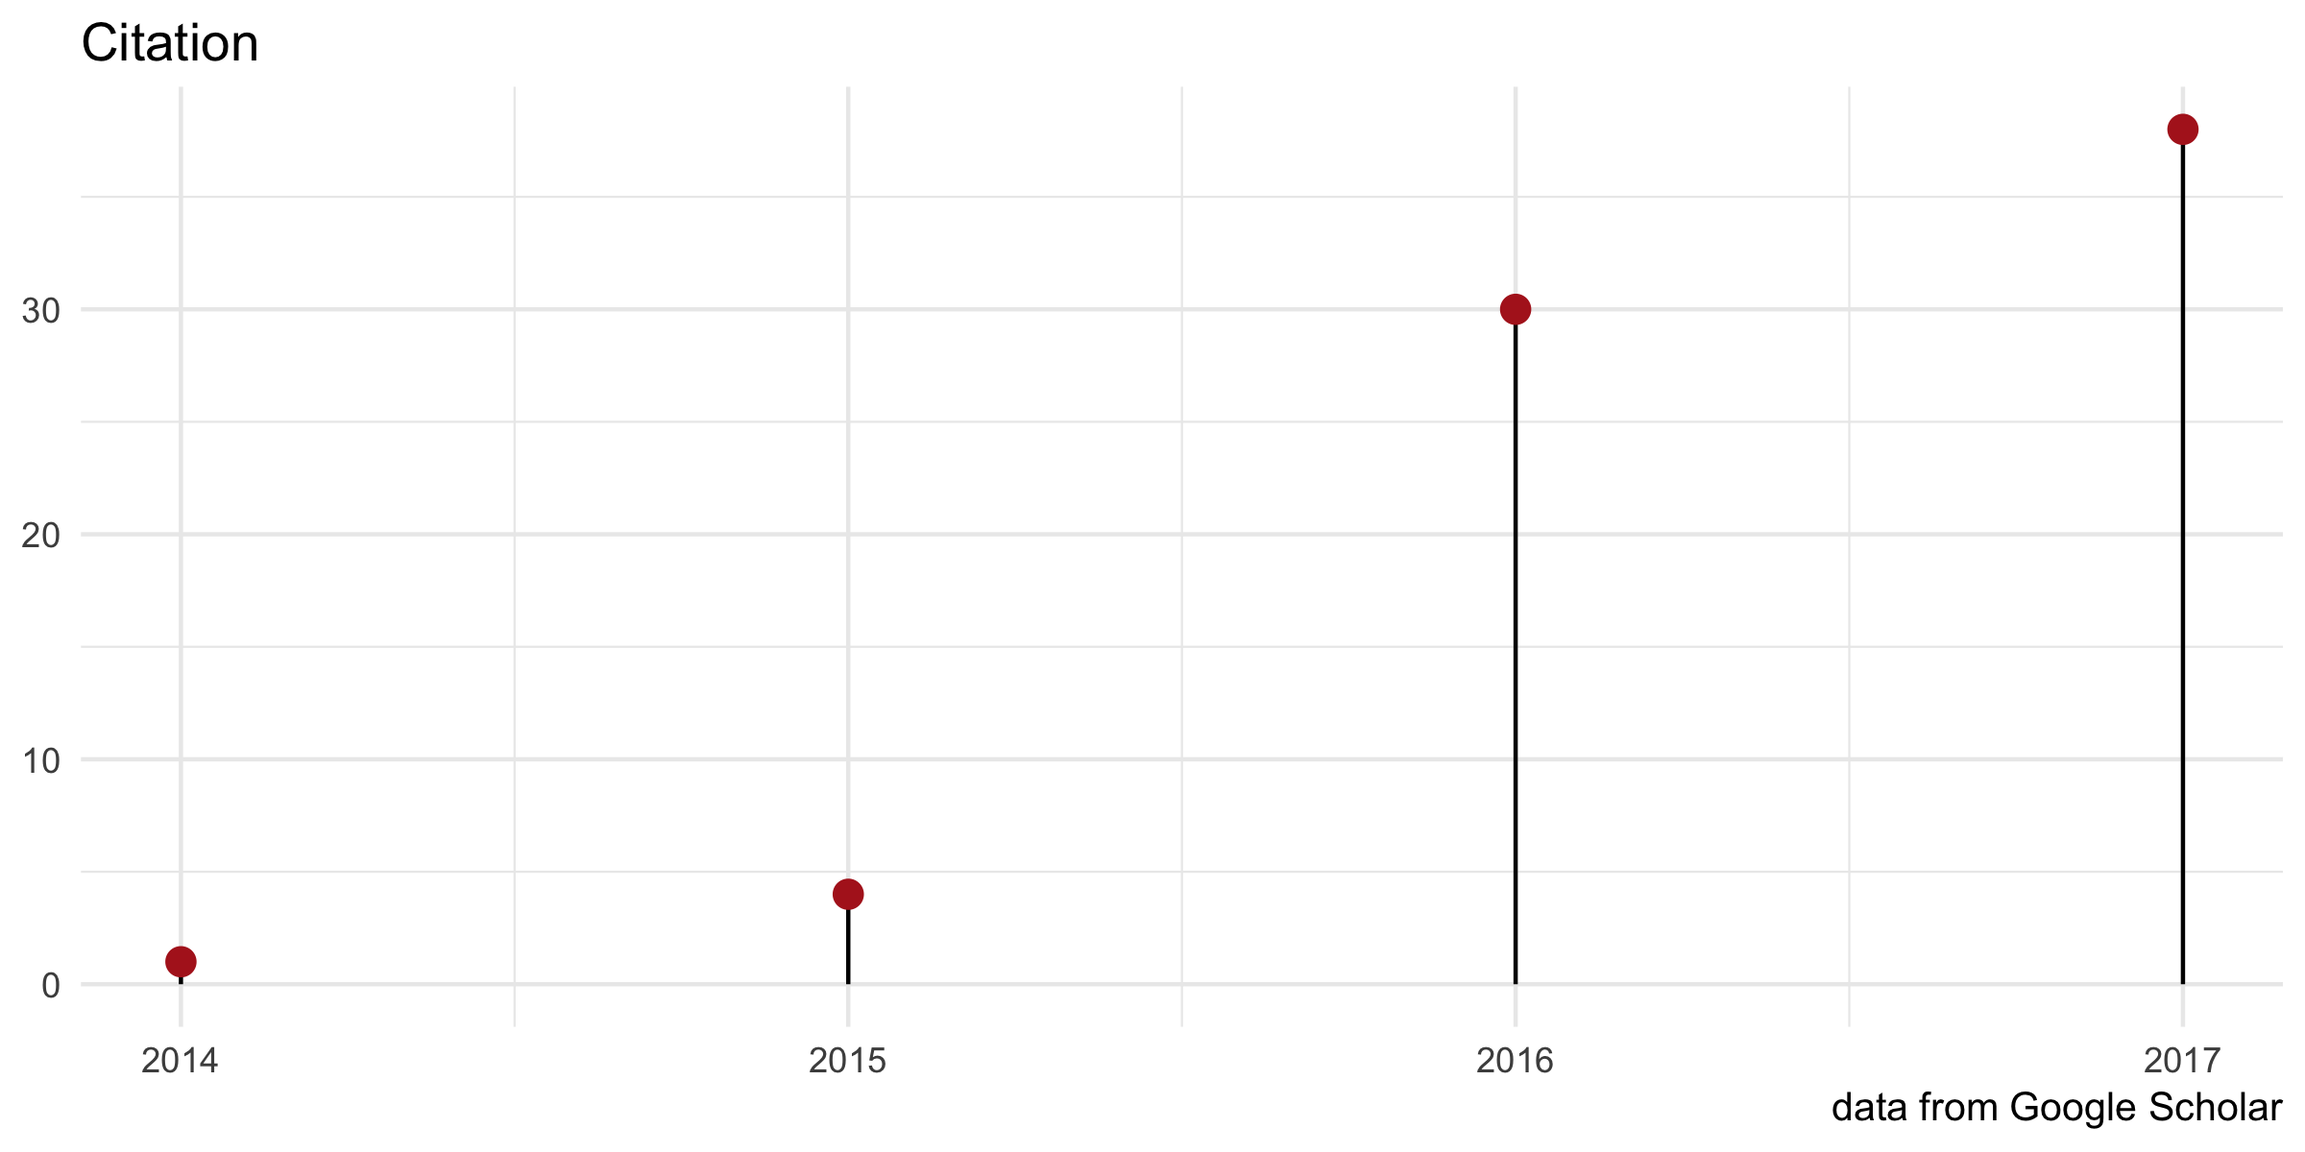
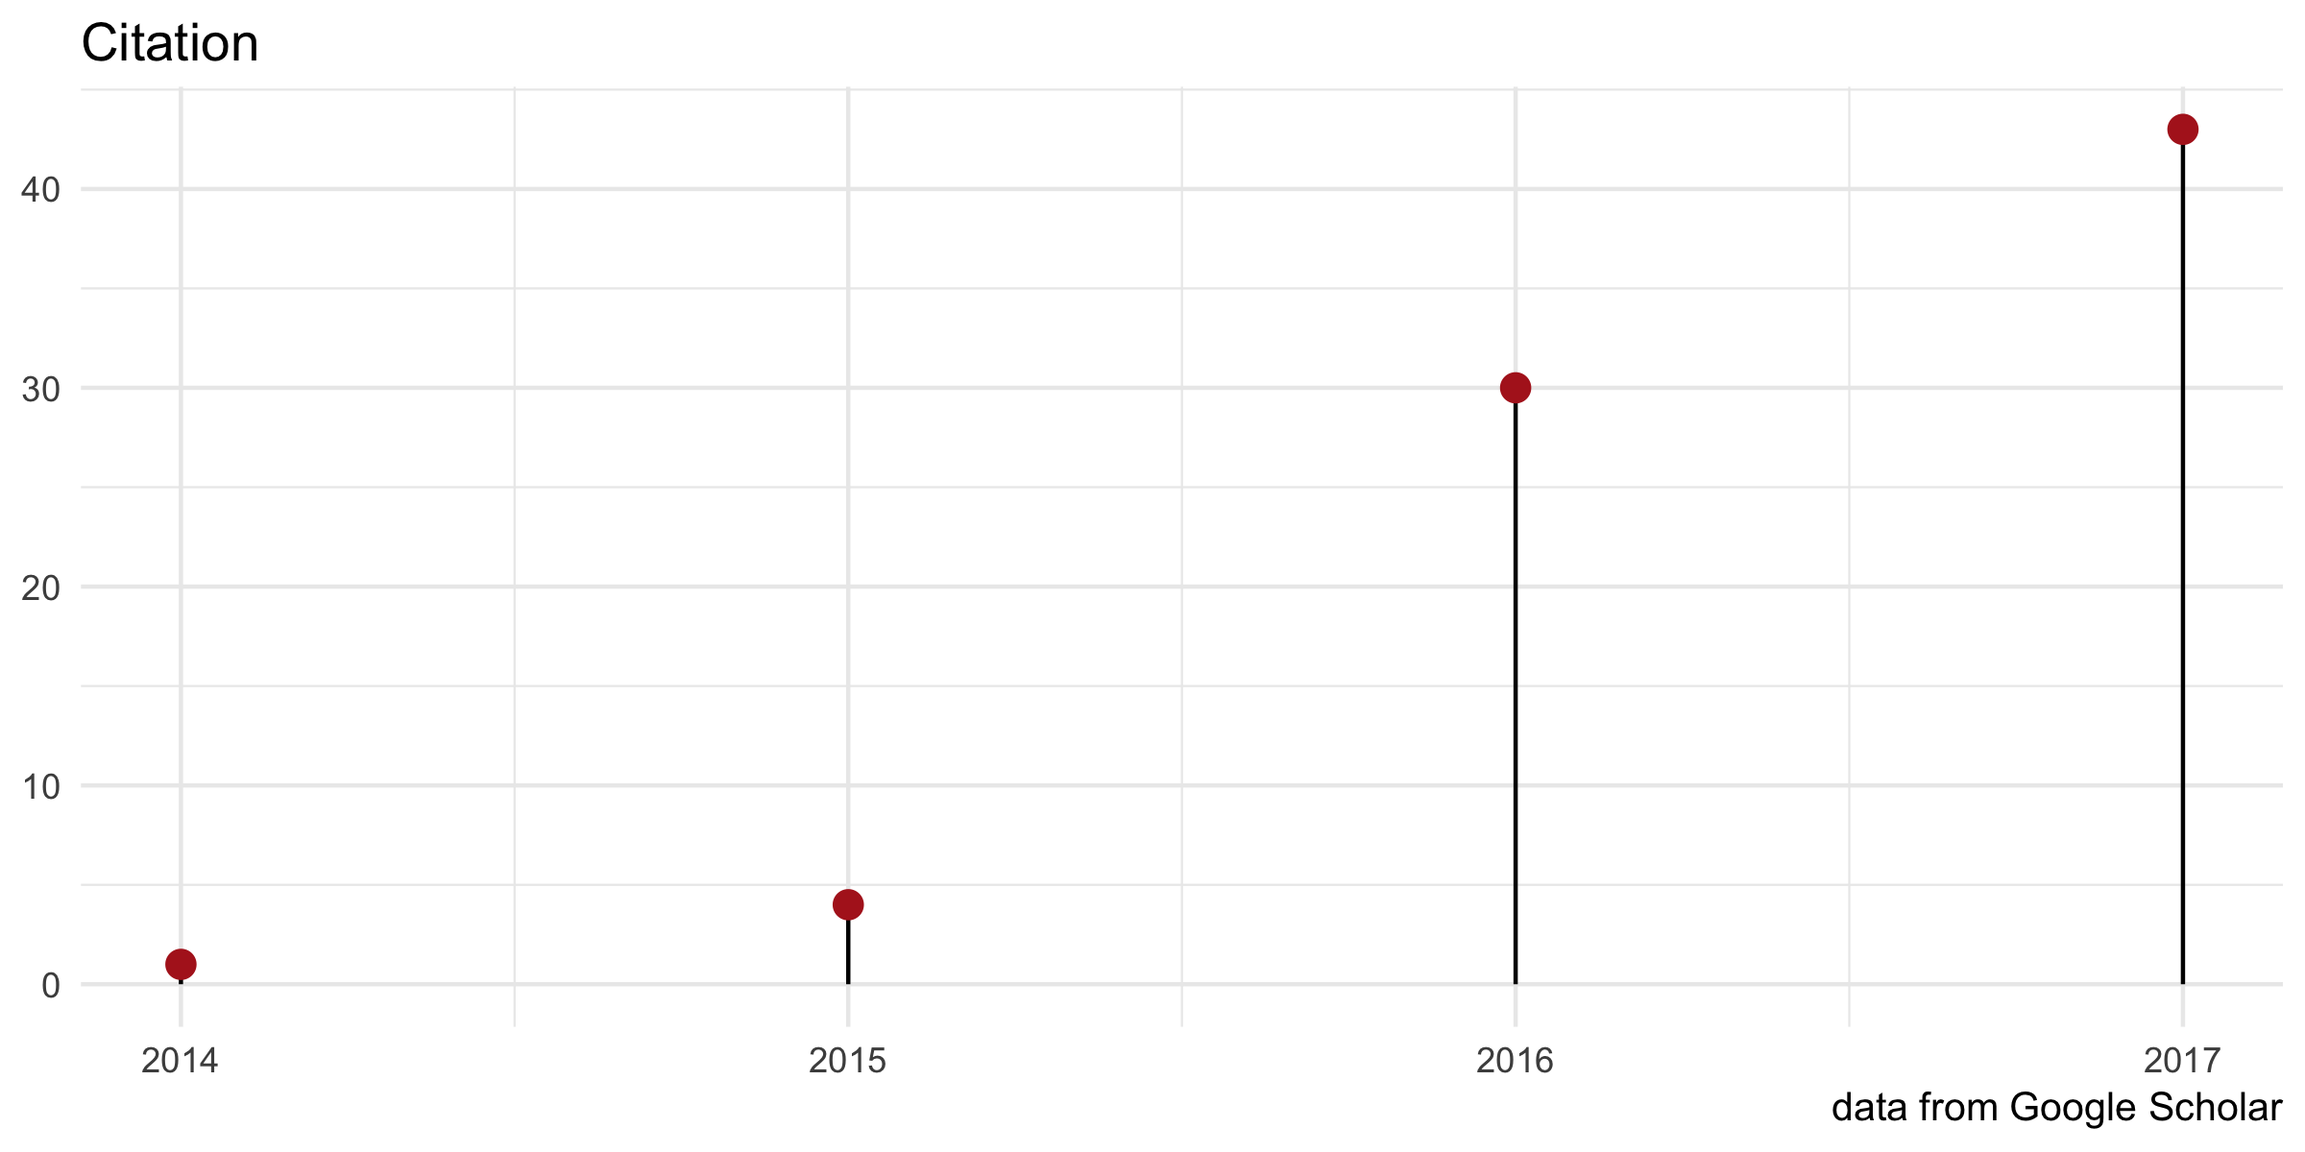
update docs

diff --git a/docs/index.html b/docs/index.html
@@ -287,7 +287,7 @@
 
 			<p><img src="https://raw.githubusercontent.com/Bioconductor/BiocStickers/master/ChIPseeker/ChIPseeker.png" height="200" align="right" /></p>
 <p><link rel="stylesheet" href="https://guangchuangyu.github.io/css/font-awesome.min.css"> <link rel="stylesheet" href="https://guangchuangyu.github.io/css/academicons.min.css"></p>
-<p><a href="https://bioconductor.org/packages/ChIPseeker"><img src="https://img.shields.io/badge/release%20version-1.12.1-blue.svg?style=flat" alt="releaseVersion" /></a> <a href="https://github.com/guangchuangyu/ChIPseeker"><img src="https://img.shields.io/badge/devel%20version-1.13.1-blue.svg?style=flat" alt="develVersion" /></a> <a href="https://bioconductor.org/packages/stats/bioc/ChIPseeker"><img src="https://img.shields.io/badge/downloads-16619/total-blue.svg?style=flat" alt="total" /></a> <a href="https://bioconductor.org/packages/stats/bioc/ChIPseeker"><img src="https://img.shields.io/badge/downloads-593/month-blue.svg?style=flat" alt="month" /></a></p>
+<p><a href="https://bioconductor.org/packages/ChIPseeker"><img src="https://img.shields.io/badge/release%20version-1.12.1-blue.svg?style=flat" alt="releaseVersion" /></a> <a href="https://github.com/guangchuangyu/ChIPseeker"><img src="https://img.shields.io/badge/devel%20version-1.13.1-blue.svg?style=flat" alt="develVersion" /></a> <a href="https://bioconductor.org/packages/stats/bioc/ChIPseeker"><img src="https://img.shields.io/badge/downloads-16728/total-blue.svg?style=flat" alt="total" /></a> <a href="https://bioconductor.org/packages/stats/bioc/ChIPseeker"><img src="https://img.shields.io/badge/downloads-565/month-blue.svg?style=flat" alt="month" /></a></p>
 <p>This package implements functions to retrieve the nearest genes around the peak, annotate genomic region of the peak, statstical methods for estimate the significance of overlap among ChIP peak data sets, and incorporate GEO database for user to compare their own dataset with those deposited in database. The comparison can be used to infer cooperative regulation and thus can be used to generate hypotheses. Several visualization functions are implemented to summarize the coverage of the peak experiment, average profile and heatmap of peaks binding to TSS regions, genomic annotation, distance to TSS, and overlap of peaks or genes.</p>
 <p><code>ChIPseeker</code> is released within the <a href="https://www.bioconductor.org/packages/ChIPseeker">Bioconductor</a> project and the source code is hosted on <a href="https://github.com/GuangchuangYu/ChIPseeker"><i class="fa fa-github fa-lg"></i> GitHub</a>.</p>
 <div id="author" class="section level2">
@@ -297,7 +297,7 @@
 <div id="citation" class="section level2">
 <h2><i class="fa fa-book"></i> Citation</h2>
 <p>Please cite the following article when using <code>ChIPseeker</code>:</p>
-<p><a href="http://dx.doi.org/10.1093/bioinformatics/btv145"><img src="https://img.shields.io/badge/doi-10.1093/bioinformatics/btv145-blue.svg?style=flat" alt="doi" /></a> <a href="https://www.altmetric.com/details/3781087"><img src="https://img.shields.io/badge/Altmetric-31-blue.svg?style=flat" alt="Altmetric" /></a> <a href="https://scholar.google.com.hk/scholar?oi=bibs&amp;hl=en&amp;cites=12053363057899219488"><img src="https://img.shields.io/badge/cited%20by-76-blue.svg?style=flat" alt="citation" /></a></p>
+<p><a href="http://dx.doi.org/10.1093/bioinformatics/btv145"><img src="https://img.shields.io/badge/doi-10.1093/bioinformatics/btv145-blue.svg?style=flat" alt="doi" /></a> <a href="https://www.altmetric.com/details/3781087"><img src="https://img.shields.io/badge/Altmetric-31-blue.svg?style=flat" alt="Altmetric" /></a> <a href="https://scholar.google.com.hk/scholar?oi=bibs&amp;hl=en&amp;cites=12053363057899219488"><img src="https://img.shields.io/badge/cited%20by-78-blue.svg?style=flat" alt="citation" /></a></p>
 <p><strong>Yu G</strong>, Wang LG and He QY<sup>*</sup>. ChIPseeker: an R/Bioconductor package for ChIP peak annotation, comparison and visualization. <strong><em>Bioinformatics</em></strong>, 2015, 31(14):2382-2383.</p>
 </div>
 <div id="featured-articles" class="section level2">
@@ -504,6 +504,11 @@ biocLite(&quot;ChIPseeker&quot;)</code></pre>
     
 
     <script src="//cdnjs.cloudflare.com/ajax/libs/highlight.js/9.8.0/highlight.min.js"></script>
+    <script>hljs.initHighlightingOnLoad();</script>
+  </body>
+</html>
+
+pt src="//cdnjs.cloudflare.com/ajax/libs/highlight.js/9.8.0/highlight.min.js"></script>
     <script>hljs.initHighlightingOnLoad();</script>
   </body>
 </html>

diff --git a/site_src/content/index.html b/site_src/content/index.html
@@ -9,7 +9,7 @@ weight: 1
 
 <p><img src="https://raw.githubusercontent.com/Bioconductor/BiocStickers/master/ChIPseeker/ChIPseeker.png" height="200" align="right" /></p>
 <p><link rel="stylesheet" href="https://guangchuangyu.github.io/css/font-awesome.min.css"> <link rel="stylesheet" href="https://guangchuangyu.github.io/css/academicons.min.css"></p>
-<p><a href="https://bioconductor.org/packages/ChIPseeker"><img src="https://img.shields.io/badge/release%20version-1.12.1-blue.svg?style=flat" alt="releaseVersion" /></a> <a href="https://github.com/guangchuangyu/ChIPseeker"><img src="https://img.shields.io/badge/devel%20version-1.13.1-blue.svg?style=flat" alt="develVersion" /></a> <a href="https://bioconductor.org/packages/stats/bioc/ChIPseeker"><img src="https://img.shields.io/badge/downloads-16619/total-blue.svg?style=flat" alt="total" /></a> <a href="https://bioconductor.org/packages/stats/bioc/ChIPseeker"><img src="https://img.shields.io/badge/downloads-593/month-blue.svg?style=flat" alt="month" /></a></p>
+<p><a href="https://bioconductor.org/packages/ChIPseeker"><img src="https://img.shields.io/badge/release%20version-1.12.1-blue.svg?style=flat" alt="releaseVersion" /></a> <a href="https://github.com/guangchuangyu/ChIPseeker"><img src="https://img.shields.io/badge/devel%20version-1.13.1-blue.svg?style=flat" alt="develVersion" /></a> <a href="https://bioconductor.org/packages/stats/bioc/ChIPseeker"><img src="https://img.shields.io/badge/downloads-16728/total-blue.svg?style=flat" alt="total" /></a> <a href="https://bioconductor.org/packages/stats/bioc/ChIPseeker"><img src="https://img.shields.io/badge/downloads-565/month-blue.svg?style=flat" alt="month" /></a></p>
 <p>This package implements functions to retrieve the nearest genes around the peak, annotate genomic region of the peak, statstical methods for estimate the significance of overlap among ChIP peak data sets, and incorporate GEO database for user to compare their own dataset with those deposited in database. The comparison can be used to infer cooperative regulation and thus can be used to generate hypotheses. Several visualization functions are implemented to summarize the coverage of the peak experiment, average profile and heatmap of peaks binding to TSS regions, genomic annotation, distance to TSS, and overlap of peaks or genes.</p>
 <p><code>ChIPseeker</code> is released within the <a href="https://www.bioconductor.org/packages/ChIPseeker">Bioconductor</a> project and the source code is hosted on <a href="https://github.com/GuangchuangYu/ChIPseeker"><i class="fa fa-github fa-lg"></i> GitHub</a>.</p>
 <div id="author" class="section level2">
@@ -19,7 +19,7 @@ weight: 1
 <div id="citation" class="section level2">
 <h2><i class="fa fa-book"></i> Citation</h2>
 <p>Please cite the following article when using <code>ChIPseeker</code>:</p>
-<p><a href="http://dx.doi.org/10.1093/bioinformatics/btv145"><img src="https://img.shields.io/badge/doi-10.1093/bioinformatics/btv145-blue.svg?style=flat" alt="doi" /></a> <a href="https://www.altmetric.com/details/3781087"><img src="https://img.shields.io/badge/Altmetric-31-blue.svg?style=flat" alt="Altmetric" /></a> <a href="https://scholar.google.com.hk/scholar?oi=bibs&amp;hl=en&amp;cites=12053363057899219488"><img src="https://img.shields.io/badge/cited%20by-76-blue.svg?style=flat" alt="citation" /></a></p>
+<p><a href="http://dx.doi.org/10.1093/bioinformatics/btv145"><img src="https://img.shields.io/badge/doi-10.1093/bioinformatics/btv145-blue.svg?style=flat" alt="doi" /></a> <a href="https://www.altmetric.com/details/3781087"><img src="https://img.shields.io/badge/Altmetric-31-blue.svg?style=flat" alt="Altmetric" /></a> <a href="https://scholar.google.com.hk/scholar?oi=bibs&amp;hl=en&amp;cites=12053363057899219488"><img src="https://img.shields.io/badge/cited%20by-78-blue.svg?style=flat" alt="citation" /></a></p>
 <p><strong>Yu G</strong>, Wang LG and He QY<sup>*</sup>. ChIPseeker: an R/Bioconductor package for ChIP peak annotation, comparison and visualization. <strong><em>Bioinformatics</em></strong>, 2015, 31(14):2382-2383.</p>
 </div>
 <div id="featured-articles" class="section level2">

diff --git a/site_src/content/featured-articles/index.html b/site_src/content/featured-articles/index.html
@@ -11,7 +11,9 @@ weight: 30
 <p><img src="../images/citation.png" width="880"/></p>
 <div id="section" class="section level2">
 <h2><i class="fa fa-calendar"></i> 2017</h2>
-<p><a href="https://www.nature.com/articles/s41467-017-00702-5">ZNF516 suppresses EGFR by targeting the CtBP/LSD1/CoREST complex to chromatin</a>. Nature Communications. 2017, 8:691.</p>
+<p><a href="https://doi.org/10.1093/neuonc/nox186">Global DNA methylation analysis reveals miR-214-3p contributes to cisplatin resistance in pediatric intracranial nongerminomatous malignant germ cell tumors</a>. <strong><em>Neuro-Oncology</em></strong>. 2017.</p>
+<p><a href="https://doi.org/10.1093/nar/gkx860">Identification of the direct regulon of NtcA during early acclimation to nitrogen starvation in the cyanobacterium <em>Synechocystis</em> sp. PCC 6803</a>. <strong><em>Nucleic Acids Research</em></strong>. 2017.</p>
+<p><a href="https://www.nature.com/articles/s41467-017-00702-5">ZNF516 suppresses EGFR by targeting the CtBP/LSD1/CoREST complex to chromatin</a>. <strong><em>Nature Communications</em></strong>. 2017, 8:691.</p>
 <p><a href="http://www.sciencedirect.com/science/article/pii/S1074761317303680">An NF-κB Transcription-Factor-Dependent Lineage-Specific Transcriptional Program Promotes Regulatory T Cell Identity and Function</a>. <strong><em>Immunity</em></strong>. 2017</p>
 <p><a href="https://doi.org/10.1038/ncomms16034">BRG1-SWI/SNF-dependent regulation of the Wt1 transcriptional landscape mediates epicardial activity during heart development and disease</a>. <strong><em>Nature Communications</em></strong>. 2017, 8:16034.</p>
 <p><a href="http://www.nature.com/ng/journal/vaop/ncurrent/full/ng.3844.html">Conserved roles of mouse DUX and human DUX4 in activating cleavage-stage genes and MERVL/HERVL retrotransposons</a>. <strong><em>Nature Genetics</em></strong>. 2017, 49:925-934.</p>

diff --git a/docs/featured-articles/index.html b/docs/featured-articles/index.html
@@ -293,7 +293,9 @@
 <p><img src="../images/citation.png" width="880"/></p>
 <div id="section" class="section level2">
 <h2><i class="fa fa-calendar"></i> 2017</h2>
-<p><a href="https://www.nature.com/articles/s41467-017-00702-5">ZNF516 suppresses EGFR by targeting the CtBP/LSD1/CoREST complex to chromatin</a>. Nature Communications. 2017, 8:691.</p>
+<p><a href="https://doi.org/10.1093/neuonc/nox186">Global DNA methylation analysis reveals miR-214-3p contributes to cisplatin resistance in pediatric intracranial nongerminomatous malignant germ cell tumors</a>. <strong><em>Neuro-Oncology</em></strong>. 2017.</p>
+<p><a href="https://doi.org/10.1093/nar/gkx860">Identification of the direct regulon of NtcA during early acclimation to nitrogen starvation in the cyanobacterium <em>Synechocystis</em> sp. PCC 6803</a>. <strong><em>Nucleic Acids Research</em></strong>. 2017.</p>
+<p><a href="https://www.nature.com/articles/s41467-017-00702-5">ZNF516 suppresses EGFR by targeting the CtBP/LSD1/CoREST complex to chromatin</a>. <strong><em>Nature Communications</em></strong>. 2017, 8:691.</p>
 <p><a href="http://www.sciencedirect.com/science/article/pii/S1074761317303680">An NF-κB Transcription-Factor-Dependent Lineage-Specific Transcriptional Program Promotes Regulatory T Cell Identity and Function</a>. <strong><em>Immunity</em></strong>. 2017</p>
 <p><a href="https://doi.org/10.1038/ncomms16034">BRG1-SWI/SNF-dependent regulation of the Wt1 transcriptional landscape mediates epicardial activity during heart development and disease</a>. <strong><em>Nature Communications</em></strong>. 2017, 8:16034.</p>
 <p><a href="http://www.nature.com/ng/journal/vaop/ncurrent/full/ng.3844.html">Conserved roles of mouse DUX and human DUX4 in activating cleavage-stage genes and MERVL/HERVL retrotransposons</a>. <strong><em>Nature Genetics</em></strong>. 2017, 49:925-934.</p>

diff --git a/README.md b/README.md
@@ -1,9 +1,9 @@
 ChIPseeker: ChIP peak Annotation, Comparison, and Visualization
 ===============================================================
 
-[![releaseVersion](https://img.shields.io/badge/release%20version-1.12.1-green.svg?style=flat)](https://bioconductor.org/packages/ChIPseeker) [![develVersion](https://img.shields.io/badge/devel%20version-1.13.1-green.svg?style=flat)](https://github.com/guangchuangyu/ChIPseeker) [![Bioc](http://www.bioconductor.org/shields/years-in-bioc/ChIPseeker.svg)](https://www.bioconductor.org/packages/devel/bioc/html/ChIPseeker.html#since) [![total](https://img.shields.io/badge/downloads-16258/total-blue.svg?style=flat)](https://bioconductor.org/packages/stats/bioc/ChIPseeker) [![month](https://img.shields.io/badge/downloads-593/month-blue.svg?style=flat)](https://bioconductor.org/packages/stats/bioc/ChIPseeker)
+[![releaseVersion](https://img.shields.io/badge/release%20version-1.12.1-green.svg?style=flat)](https://bioconductor.org/packages/ChIPseeker) [![develVersion](https://img.shields.io/badge/devel%20version-1.13.1-green.svg?style=flat)](https://github.com/guangchuangyu/ChIPseeker) [![Bioc](http://www.bioconductor.org/shields/years-in-bioc/ChIPseeker.svg)](https://www.bioconductor.org/packages/devel/bioc/html/ChIPseeker.html#since) [![total](https://img.shields.io/badge/downloads-16728/total-blue.svg?style=flat)](https://bioconductor.org/packages/stats/bioc/ChIPseeker) [![month](https://img.shields.io/badge/downloads-565/month-blue.svg?style=flat)](https://bioconductor.org/packages/stats/bioc/ChIPseeker)
 
-[![Project Status: Active - The project has reached a stable, usable state and is being actively developed.](http://www.repostatus.org/badges/latest/active.svg)](http://www.repostatus.org/#active) [![codecov](https://codecov.io/gh/GuangchuangYu/ChIPseeker/branch/master/graph/badge.svg)](https://codecov.io/gh/GuangchuangYu/ChIPseeker/) [![Last-changedate](https://img.shields.io/badge/last%20change-2017--09--13-green.svg)](https://github.com/GuangchuangYu/ChIPseeker/commits/master) [![commit](http://www.bioconductor.org/shields/commits/bioc/ChIPseeker.svg)](https://www.bioconductor.org/packages/devel/bioc/html/ChIPseeker.html#svn_source) [![GitHub forks](https://img.shields.io/github/forks/GuangchuangYu/ChIPseeker.svg)](https://github.com/GuangchuangYu/ChIPseeker/network) [![GitHub stars](https://img.shields.io/github/stars/GuangchuangYu/ChIPseeker.svg)](https://github.com/GuangchuangYu/ChIPseeker/stargazers)
+[![Project Status: Active - The project has reached a stable, usable state and is being actively developed.](http://www.repostatus.org/badges/latest/active.svg)](http://www.repostatus.org/#active) [![codecov](https://codecov.io/gh/GuangchuangYu/ChIPseeker/branch/master/graph/badge.svg)](https://codecov.io/gh/GuangchuangYu/ChIPseeker/) [![Last-changedate](https://img.shields.io/badge/last%20change-2017--10--09-green.svg)](https://github.com/GuangchuangYu/ChIPseeker/commits/master) [![commit](http://www.bioconductor.org/shields/commits/bioc/ChIPseeker.svg)](https://www.bioconductor.org/packages/devel/bioc/html/ChIPseeker.html#svn_source) [![GitHub forks](https://img.shields.io/github/forks/GuangchuangYu/ChIPseeker.svg)](https://github.com/GuangchuangYu/ChIPseeker/network) [![GitHub stars](https://img.shields.io/github/stars/GuangchuangYu/ChIPseeker.svg)](https://github.com/GuangchuangYu/ChIPseeker/stargazers)
 
 [![platform](http://www.bioconductor.org/shields/availability/devel/ChIPseeker.svg)](https://www.bioconductor.org/packages/devel/bioc/html/ChIPseeker.html#archives) [![Build Status](http://www.bioconductor.org/shields/build/devel/bioc/ChIPseeker.svg)](https://bioconductor.org/checkResults/devel/bioc-LATEST/ChIPseeker/) [![Linux/Mac Travis Build Status](https://img.shields.io/travis/GuangchuangYu/ChIPseeker/master.svg?label=Mac%20OSX%20%26%20Linux)](https://travis-ci.org/GuangchuangYu/ChIPseeker) [![AppVeyor Build Status](https://img.shields.io/appveyor/ci/Guangchuangyu/ChIPseeker/master.svg?label=Windows)](https://ci.appveyor.com/project/GuangchuangYu/ChIPseeker)
 
@@ -29,7 +29,7 @@ Please cite the following article when using `ChIPseeker`:
 
 ### Citation
 
-[![citation](https://img.shields.io/badge/cited%20by-73-green.svg?style=flat)](https://scholar.google.com.hk/scholar?oi=bibs&hl=en&cites=12053363057899219488)
+[![citation](https://img.shields.io/badge/cited%20by-78-green.svg?style=flat)](https://scholar.google.com.hk/scholar?oi=bibs&hl=en&cites=12053363057899219488)
 
 ![](https://img.shields.io/badge/ESI-Highly%20Cited%20Paper-green.svg?style=flat)
 
@@ -37,6 +37,6 @@ Please cite the following article when using `ChIPseeker`:
 
 ### Download stats
 
-[![download](http://www.bioconductor.org/shields/downloads/ChIPseeker.svg)](https://bioconductor.org/packages/stats/bioc/ChIPseeker) [![total](https://img.shields.io/badge/downloads-16258/total-blue.svg?style=flat)](https://bioconductor.org/packages/stats/bioc/ChIPseeker) [![month](https://img.shields.io/badge/downloads-593/month-blue.svg?style=flat)](https://bioconductor.org/packages/stats/bioc/ChIPseeker)
+[![download](http://www.bioconductor.org/shields/downloads/ChIPseeker.svg)](https://bioconductor.org/packages/stats/bioc/ChIPseeker) [![total](https://img.shields.io/badge/downloads-16728/total-blue.svg?style=flat)](https://bioconductor.org/packages/stats/bioc/ChIPseeker) [![month](https://img.shields.io/badge/downloads-565/month-blue.svg?style=flat)](https://bioconductor.org/packages/stats/bioc/ChIPseeker)
 
 <img src="docs/images/dlstats.png" width="890"/>
